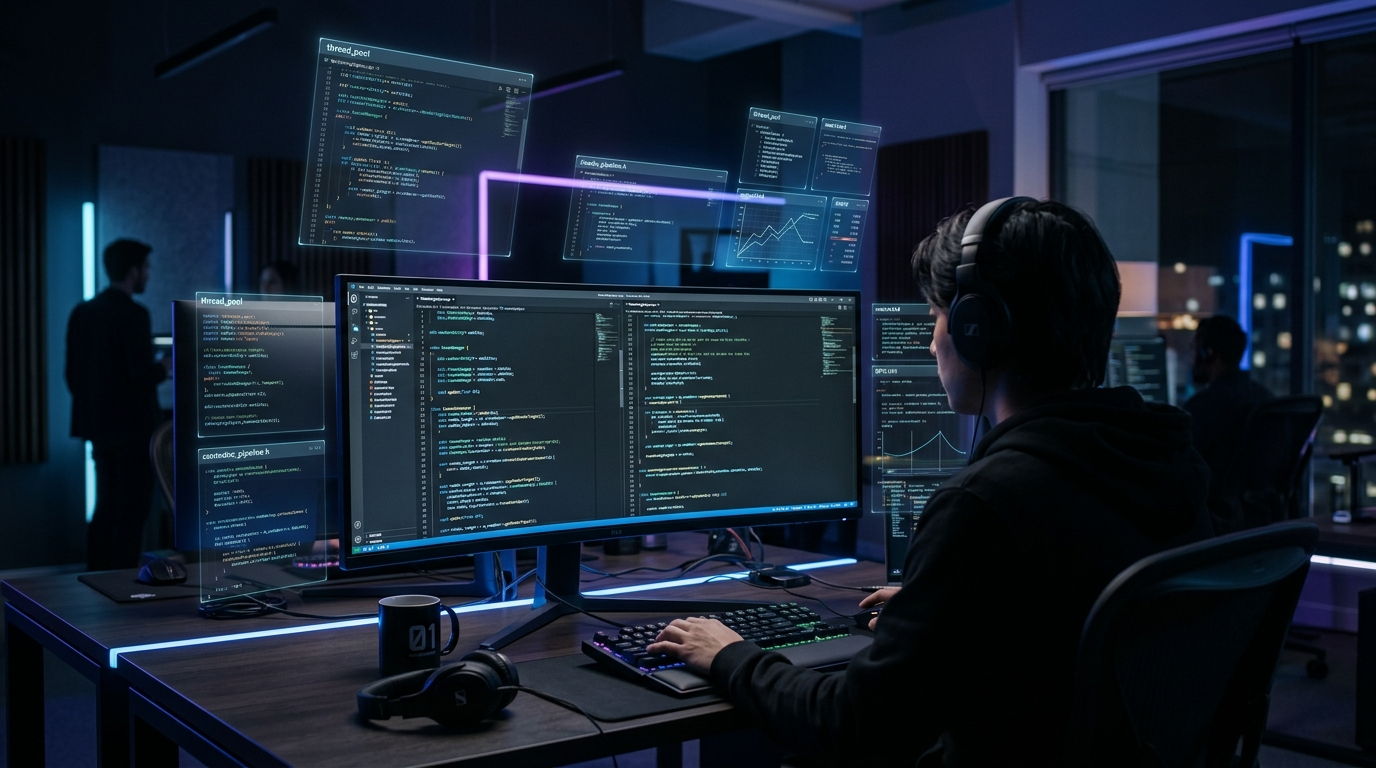
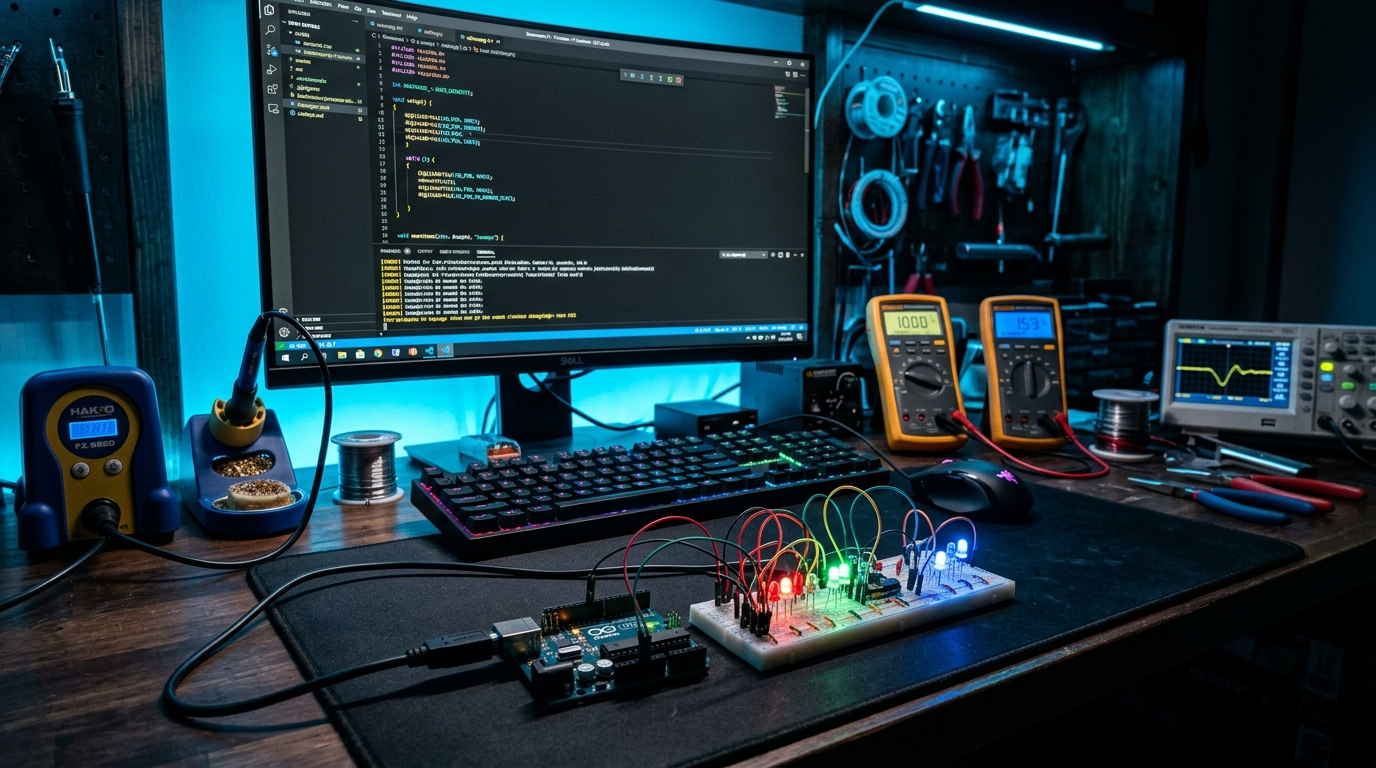
fix: update C++ and Python images and text to focus on microcontrollers and embedded systems

diff --git a/components/StoreHeroCarousel.vue b/components/StoreHeroCarousel.vue
@@ -140,11 +140,11 @@ const slides = [
   },
   {
     id: 11,
-    title: 'Machine Learning con Python',
-    subtitle: 'Implementa inteligencia artificial, análisis de datos y visión computacional.',
+    title: 'MicroPython para IoT',
+    subtitle: 'Programa sensores y placas ESP32 de forma rápida y sencilla con Python.',
     imageUrl: '/images/hero/python_code_hero.jpg',
-    actionText: 'Ver Módulos IA',
-    actionLink: '/store?category=ai',
+    actionText: 'Ver Módulos ESP32',
+    actionLink: '/store?category=esp32',
   }
 ];
 
